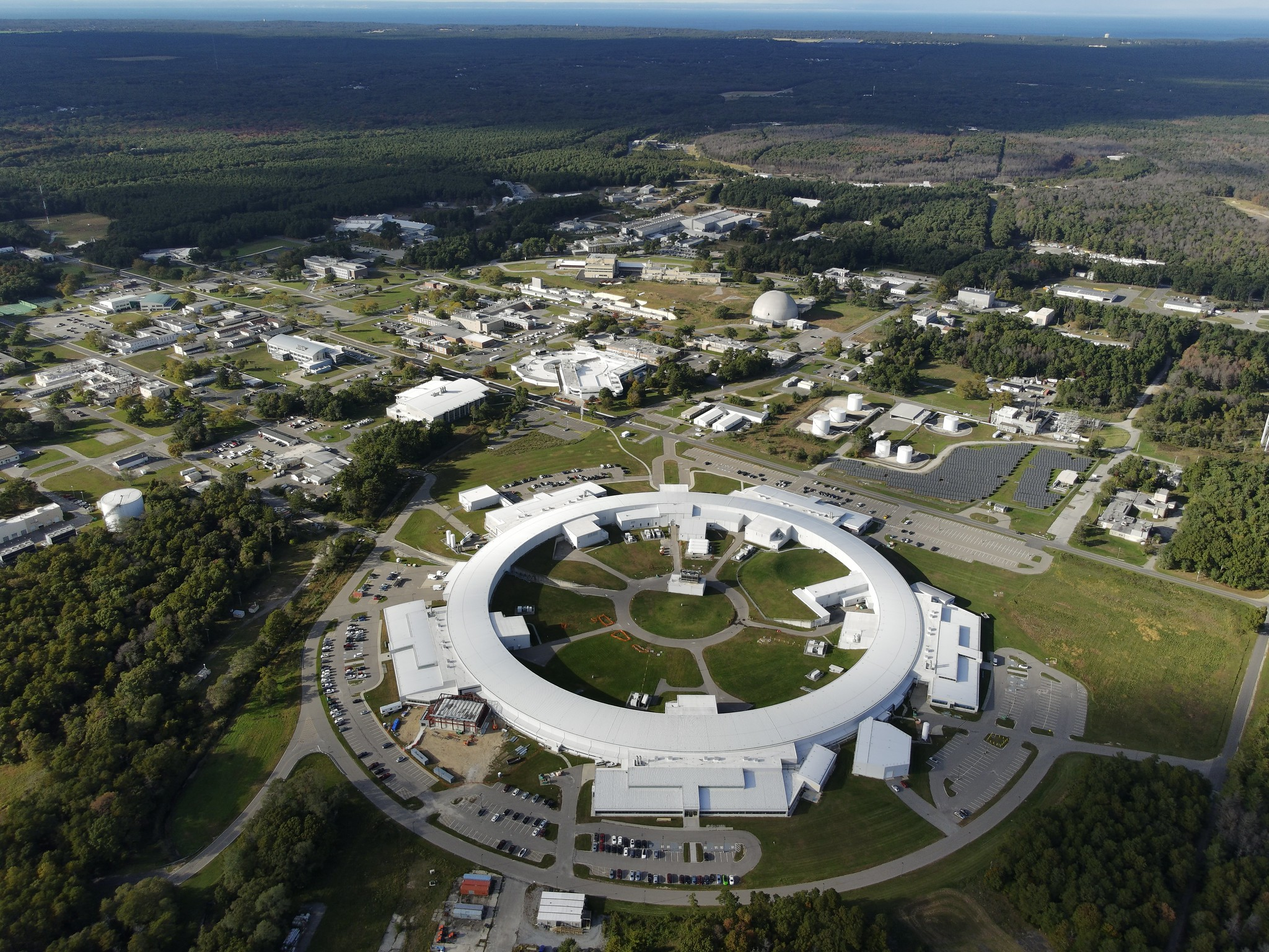
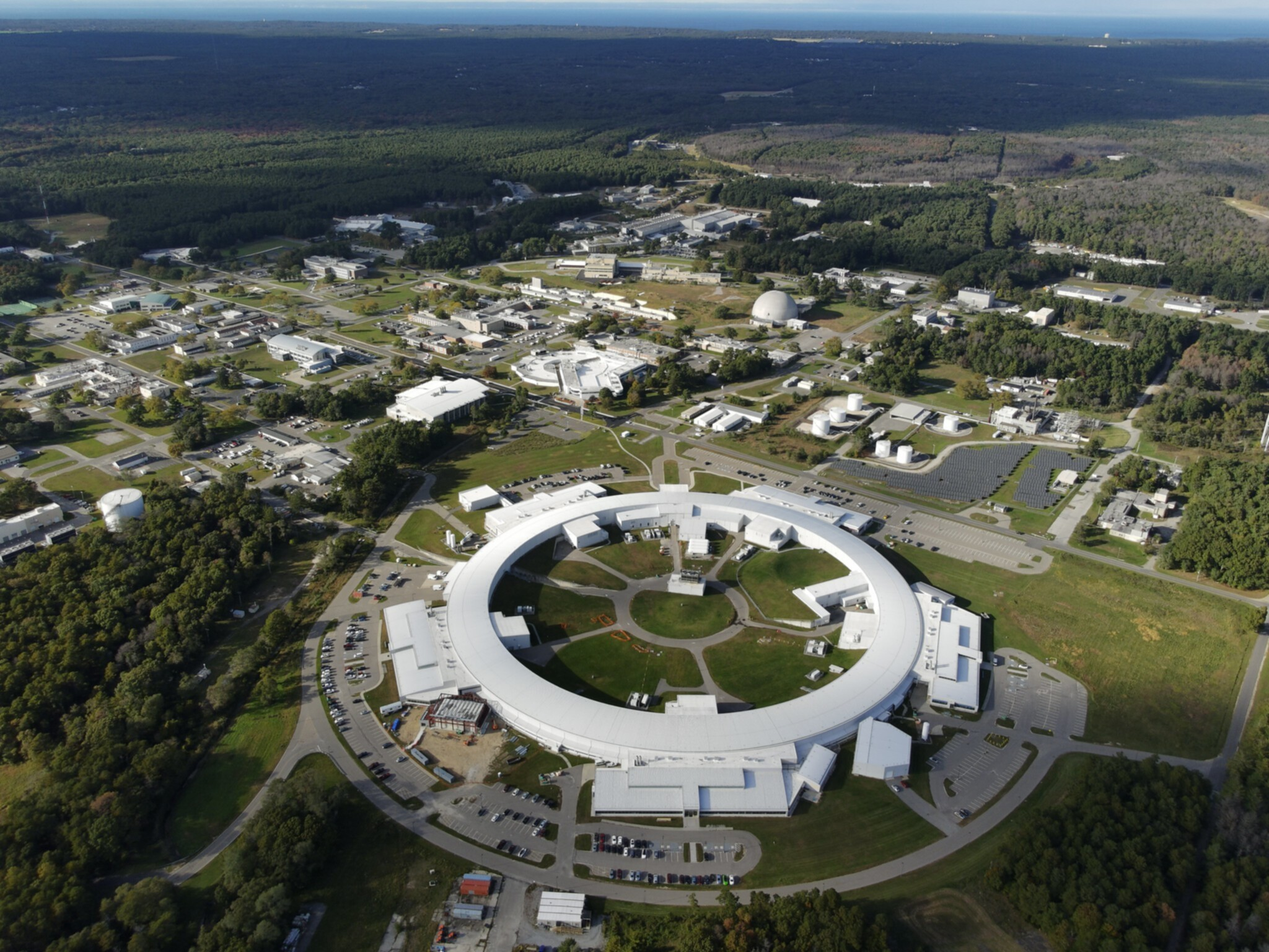
💍 Ring fixes

diff --git a/index.html b/index.html
@@ -89,7 +89,7 @@
 					<h2 class="major">Science @ Scale</h2>
 					<p class="fg-text-em">Big breakthroughs require looking at the big picture; in the realm of discovery, no scientist operates alone.
 					   Experimental applications often push the boundaries of what is possible, not purely in terms of the constraints of physics, but also
-					   against the limits of data throughput and processing. Kari has joined the National Synchrotron Light Source II at Brookhaven National Laboratory
+					   against the limits of data throughput and processing. Kari has joined the <a href="https://www.bnl.gov/nsls2/">National Synchrotron Light Source II</a> at Brookhaven National Laboratory
 					   to work on new and novel architectures for scientific computing, collaborating with some of the brightest minds in the nation to bring the latest developments
 					   from industry to the cutting edge of science.
 					</p>
@@ -97,7 +97,15 @@
 						<li><a href="#second" class="button primary color1 circle icon fa-angle-right">Next</a></li>
 					</ul>
 				</div>
-			</section>			
+			</section>	
+			<!-- Written Binox Description -->
+			<section class="panel color1-alt" id="third">
+				<div class="intro color1">
+					<h2 class="major">NSLS-II</h2>
+					<p>Most people have never heard of a Synchrotron, yet for decades this type of research facility has fueled a wealth of new discoveries in material sciences, biology, chemistry and physics.</p>
+					<p>X-Rays of precise strength and cohearance are utilized for imaging, spectroscopy and tomography to offer a glimpse into an unseen world.</p>
+				</div>
+			</section>		
 			<!-- Panel (Previous Professional Work) -->
 			<section class="panel spotlight large center color1">
 				<!-- TODO : Replace with https://www.vantajs.com/-->
@@ -188,7 +196,7 @@
 										<th>Integrator</th>
 										<th>Initial API (2019)</th>
 										<th>Initial Problems</th>
-										<th>Current API (2023)</th>
+										<th>Current API (2025)</th>
 									</tr>
 								</thead>
 								<tbody>
@@ -253,7 +261,7 @@
 			<!-- Panel (forward) -->
 			<section id="foreward" class="panel spotlight large left">
 				<div class="content span-5">
-					<h3><strong>Part 2: Creative expression</strong></h3>
+					<h3><strong>Part 3: Creative expression</strong></h3>
 					<h2 class="major">Across the digital divide</h2>
 					<p>The present landscape of media is diversified by means of engagement. People scroll through
 						accelerated web pages on their smartphones, chew through episodic videos with their TVs, listen
@@ -301,7 +309,17 @@
 				</div>
 			</section>
 			<!-- Panel -->
-			<section class="panel">
+			<section class="panel color2-alt">
+				<div class="intro color2">
+					<h2 class="major">Archives</h2>
+					<p>2018-2020</p>
+					<ul class="actions">
+						<li><a id="archive" class="button primary color1 circle icon fa-book">Next</a></li>
+					</ul>
+				</div>
+			</section>
+			<!-- Panel -->
+			<section class="panel archived" id="last">
 				<div class="intro color1-alt">
 					<h2>Mixed Reality Deck</h2>
 					<h2 class="major"><strong>at VR World NYC</strong></h2>
@@ -321,7 +339,7 @@
 					</div>
 				</div>
 			</section>
-			<section class="panel">
+			<section class="panel archived">
 				<div class="intro color0">
 					<h2>AR Mascot app</h2>
 					<h2 class="major"><strong>Bringing life to Stonybrook's <em>Wolfie</em></strong></h2>
@@ -340,7 +358,7 @@
 				</div>
 			</section>
 			<!-- Panel -->
-			<section class="panel spotlight medium left">
+			<section class="panel spotlight medium left archived">
 				<div class="intro joined">
 					<h2 class="major">Sights and Sounds</h2>
 					<p>Truly phenomenal works feature strong appeals to our senses. It is through the eyes and ears of
@@ -362,8 +380,7 @@
 					<img src="images/Pane03.jpg" alt="Glowing speedball background" />
 				</div>
 			</section>
-
-			<!-- Panel -->
+			<!-- Footer -->
 			<section class="panel color3">
 				<div class="intro color3-alt">
 					<h2 class="major">Up and coming</h2>
@@ -379,13 +396,14 @@
 							</li>
 							<li class="icon fa-linkedin"><a href="https://www.linkedin.com/in/kezzism/">linked.in/kezzism</a></li>
 							<li class="icon fa-instagram"><a href="https://www.instagram.com/kezzism/">@kezzism</a></li>
+							<li class="icon fa-bug"><a href="https://twitter.com/Kezzism">@kezz.io</a></li>
 							<li class="icon fa-twitter"><a href="https://twitter.com/Kezzism">@kezzism</a></li>
 						</ul>
 					</div>
 				</div>
 			</section>
 			<!-- Copyright -->
-			<div class="copyright">&copy; 2023 Kari Barry. Design: <a href="https://html5up.net">HTML5 UP</a>.</div>
+			<div class="copyright">&copy; 2025 Kari Barry. Design: <a href="https://html5up.net">HTML5 UP</a>.</div>
 
 		</div>
 
@@ -408,6 +426,56 @@
 	<script src="assets/js/browser.min.js"></script>
 	<script src="assets/js/breakpoints.min.js"></script>
 	<script src="assets/js/main.js"></script>
+	<script>
+	document.addEventListener("DOMContentLoaded", function () {
+		// Hide all archived panels by default
+		const archivedPanels = Array.from(document.querySelectorAll('.archived'));
+		archivedPanels.forEach(panel => {
+			panel.style.display = 'none';
+			panel.style.opacity = 0;
+			panel.style.transform = 'translateX(-50px)';
+			panel.style.transition = 'opacity 0.5s, transform 0.5s';
+		});
+
+		let shown = false;
+		const archiveBtn = document.getElementById('archive');
+		const archiveSection = archiveBtn.closest('section.panel');
+
+		archiveBtn.addEventListener('click', function (e) {
+			e.preventDefault();
+			shown = !shown;
+			if (shown) {
+				// Show panels with sequential animation
+				archivedPanels.forEach((panel, i) => {
+					setTimeout(() => {
+						panel.style.display = '';
+						// Position behind the archive section
+						if (archiveSection) {
+							const rect = archiveSection.getBoundingClientRect();
+							panel.style.position = 'relative';
+							panel.style.zIndex = 1;
+						}
+						requestAnimationFrame(() => {
+							panel.style.opacity = 1;
+							panel.style.transform = 'translateX(0)';
+						});
+					}, i * 200);
+				});
+			} else {
+				// Hide panels with sequential animation (reverse order)
+				archivedPanels.slice().reverse().forEach((panel, i) => {
+					setTimeout(() => {
+						panel.style.opacity = 0;
+						panel.style.transform = 'translateX(-50px)';
+						setTimeout(() => {
+							panel.style.display = 'none';
+						}, 500);
+					}, i * 100);
+				});
+			}
+		});
+	});
+	</script>
 
 </body>
 

diff --git a/assets/js/vanta.rings.min.js b/assets/js/vanta.rings.min.js
@@ -260,7 +260,8 @@ class Rings extends VantaBase {
       // r.wf?.geometry.computeFaceNormals()
 
     const t = this.t * 0.001;
-    this.cont.rotation.x += Math.sin(t) * 0.0001;
+    // Slow Wobble
+    //this.cont.rotation.x += Math.sin(t) * 0.0001;
     return this.cont.rotation.z += Math.cos(t) * 0.00007;
   }
 

diff --git a/assets/css/main.css b/assets/css/main.css
@@ -165,6 +165,7 @@ textarea {
 	text-shadow: 2px 2px 3px rgba(0, 0, 0, 0.4);
 }
 
+
 /* Page */
 
 @-moz-keyframes load-spinner {
